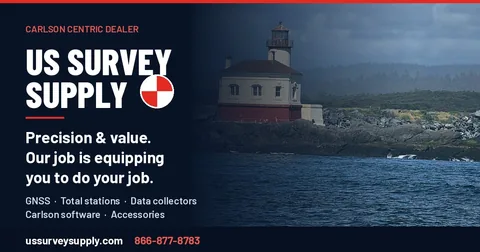
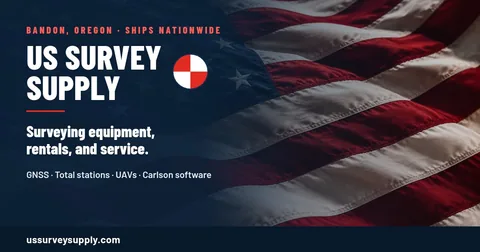
work: the Taylor card carries the flag, cut from the same template as his share card
Preston: the flag is Rod's favorite part of the site and it reads American on
the work grid. The card is the quieter variant of the share card (wc-taylor
tools/sharecard.mjs --portfolio): wordmark, target mark, what the business is
and where it ships from, four categories, the domain. No phone, no pitch; the
work grid is not selling his products. Hidden behind published: false until
the domain flips, same as before.

diff --git a/src/lib/portfolio.ts b/src/lib/portfolio.ts
@@ -81,7 +81,7 @@ export const portfolio: PortfolioItem[] = [
       src: '/work/taylor-card.webp',
       srcSmall: '/work/taylor-card-720.webp',
       srcXSmall: '/work/taylor-card-480.webp',
-      alt: 'US Survey Supply, a Carlson Centric Dealer in Bandon, Oregon: white condensed wordmark and red-and-white survey target on navy beside the Coquille River Lighthouse.',
+      alt: 'US Survey Supply, Bandon, Oregon: white condensed wordmark and red-and-white survey target on navy over an American flag. Surveying equipment, rentals, and service.',
       width: 1200,
       height: 630,
     },
